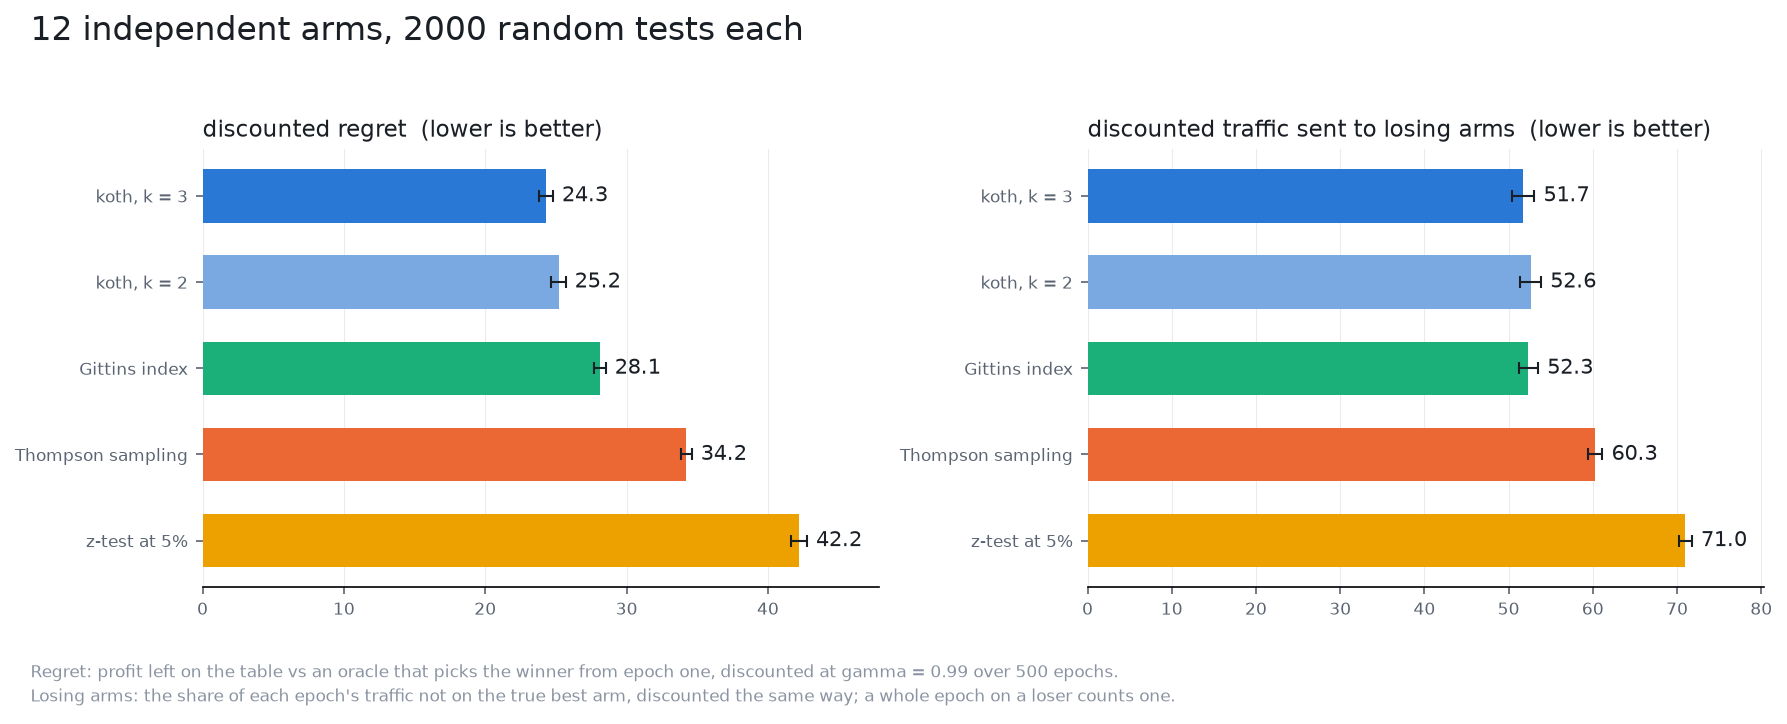
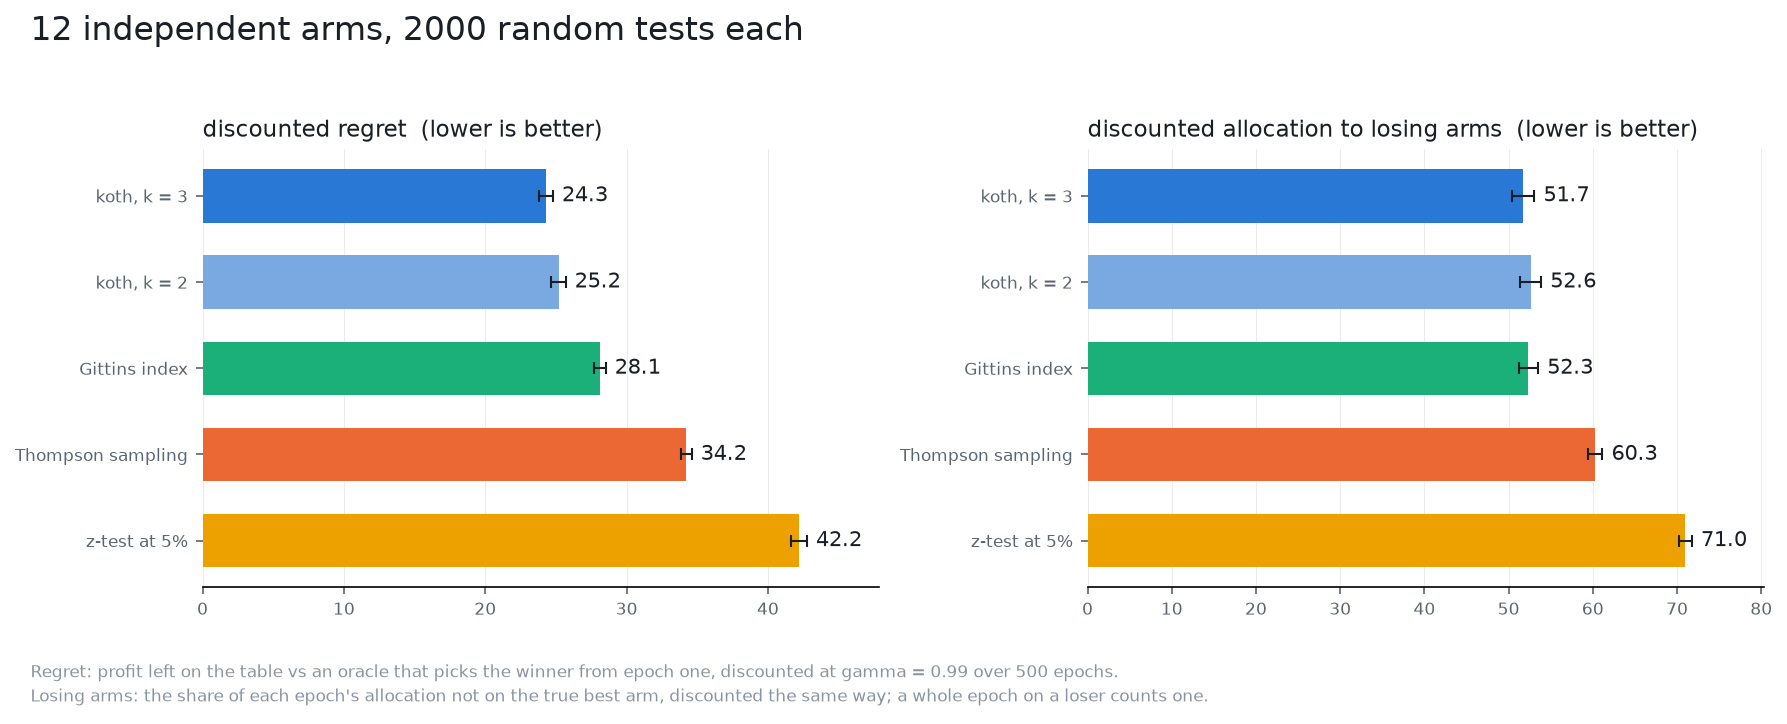
Test.observe folds a run of outcomes and allocations into the belief; the vocabulary is the model's
State.update(estimate, precision) is the step underneath, batched, on both
backends; Test.observe(state, outcomes, allocations) weighs each reading at
allocation / sigma**2, so a run of epochs is one call and equals one epoch at
a time. No traffic, visitors or visits anywhere: arms, allocation, metric,
epochs. The quickstart runs on it, rho says what 1 / rho is, the plot's
right panel is the discounted allocation to losing arms.

Changed region(s): [[0.6771, 0.1519, 0.9541, 0.2127], [0.1847, 0.942, 0.6771, 0.9724]]

diff --git a/koth/numpy_/state.py b/koth/numpy_/state.py
@@ -27,7 +27,7 @@ class State(state.State[np.ndarray]):
         return cls(mean, var[..., None] * np.eye(mean.shape[-1]))
 
     @override
-    def observe(self, estimate: np.ndarray, precision: np.ndarray) -> Self:
+    def update(self, estimate: np.ndarray, precision: np.ndarray) -> Self:
         estimate = np.broadcast_to(np.asarray(estimate, float), self.mean.shape)
         precision = np.broadcast_to(np.asarray(precision, float), self.mean.shape)
         information = np.linalg.inv(self.cov) + precision[..., None] * np.eye(self.arms)
@@ -49,13 +49,13 @@ if __name__ == "__main__":
 
     # Independent arms: observing everything at huge precision lands on the estimate.
     prior = State.independent([0.0, 1.0, 2.0], [4.0, 4.0, 4.0])
-    sharp = prior.observe([5.0, 6.0, 7.0], 1e9)
+    sharp = prior.update([5.0, 6.0, 7.0], 1e9)
     assert np.allclose(sharp.mean, [5.0, 6.0, 7.0]) and np.allclose(
         sharp.cov, 0.0, atol=1e-8
     )
 
     # One arm, precision q: the textbook scalar update, the others untouched.
-    once = prior.observe([5.0, 0.0, 0.0], [1.0, 0.0, 0.0])
+    once = prior.update([5.0, 0.0, 0.0], [1.0, 0.0, 0.0])
     assert np.isclose(once.mean[0], (0.0 / 4.0 + 5.0) / (1.0 / 4.0 + 1.0))
     assert np.isclose(once.cov[0, 0], 1.0 / (1.0 / 4.0 + 1.0))
     assert np.allclose(once.mean[1:], prior.mean[1:]) and np.allclose(
@@ -67,13 +67,14 @@ if __name__ == "__main__":
     # cov11 - cov01**2 / cov00.
     cov = np.array([[4.0, 1.0], [1.0, 2.0]])
     joint = State(np.array([0.0, 1.0]), cov)
-    told = joint.observe([2.0, 0.0], [1e12, 0.0])
+    told = joint.update([2.0, 0.0], [1e12, 0.0])
     assert np.isclose(told.mean[1], 1.0 + 1.0 / 4.0 * 2.0)
     assert np.isclose(told.cov[1, 1], 2.0 - 1.0 / 4.0)
 
     # Batched over a leading axis.
-    batch = State.independent(np.zeros((5, 3)), np.ones((5, 3))).observe(
+    batch = State.independent(np.zeros((5, 3)), np.ones((5, 3))).update(
         np.ones((5, 3)), 1.0
     )
     assert batch.mean.shape == (5, 3) and np.allclose(batch.mean, 0.5)
+
     print("state on numpy: ok")

diff --git a/koth/__init__.py b/koth/__init__.py
@@ -1,5 +1,5 @@
 """
-King of the hill: the top-k traffic-allocation heuristic for A/B/n tests with
+King of the hill: the top-k allocation heuristic for A/B/n tests with
 correlated arms.
 
     test = koth.Test(rho=0.001, sigma=450.0)
@@ -33,7 +33,10 @@ class Test(Generic[A]):
     """
 
     rho: float
-    """Discount rate per epoch."""
+    """
+    Discount rate per epoch, your time preference: `1 / rho` is the number of
+    epochs after which a result is worth 37% of one today. Not a deadline.
+    """
 
     sigma: float
     """Noise scale of one arm's estimate over one epoch at full allocation."""
@@ -72,6 +75,18 @@ class Test(Generic[A]):
         decision = self.decider.decide(chart, k)
 
         return replace(decision, value=decision.value * mean_scale / self.rho)
+
+    def observe(self, state: AnyState[A], outcomes: A, allocations: A) -> AnyState[A]:
+        """
+        The belief after a run of epochs: `outcomes[t, i]` is arm i's metric in
+        epoch t as measured, `allocations[t, i]` the share of the allocation it had
+        then (0 means no reading, and the value there is ignored). Both
+        `(epochs, arms)`; leading batch axes as on `state`.
+        """
+        weight = allocations.sum(-2)
+        estimate = (allocations * outcomes).sum(-2) / (weight + (weight == 0))
+
+        return state.update(estimate, weight / self.sigma**2)
 
 
 __all__ = ["Decision", "State", "Test"]

diff --git a/koth/__main__.py b/koth/__main__.py
@@ -62,4 +62,29 @@ if __name__ == "__main__":
         raise AssertionError("shape mismatch")
     except ValueError:
         pass
-    print("koth: units and validation ok, numpy only")
+    # Test.observe: each reading weighs allocation / sigma**2, so a run of epochs
+    # is the precision-weighted mean at the summed weight; all at once equals one
+    # epoch at a time, and an arm at allocation 0 is untouched.
+    test = Test(rho=0.01, sigma=2.0)
+    outcomes = rng.normal(size=(6, 3))
+    allocations = rng.dirichlet(np.ones(3), size=6)
+    allocations[:, 2] = 0.0
+    prior = State.flat(3, 100.0)
+    at_once = test.observe(prior, outcomes, allocations)
+    weight = allocations.sum(0)
+    expected = State.flat(3, 100.0).update(
+        (allocations * outcomes).sum(0) / np.where(weight > 0, weight, 1.0),
+        weight / 4.0,
+    )
+    assert np.allclose(at_once.mean, expected.mean) and np.allclose(
+        at_once.cov, expected.cov
+    )
+    assert at_once.cov[2, 2] == prior.cov[2, 2] and at_once.mean[2] == 0.0
+    stepwise = prior
+
+    for t in range(6):
+        stepwise = test.observe(stepwise, outcomes[t : t + 1], allocations[t : t + 1])
+    assert np.allclose(stepwise.mean, at_once.mean) and np.allclose(
+        stepwise.cov, at_once.cov
+    )
+    print("koth: units, validation and observe ok, numpy only")

diff --git a/koth/torch_/state.py b/koth/torch_/state.py
@@ -30,7 +30,7 @@ class State(state.State[Tensor]):
         return cls(mean, torch.diag_embed(var))
 
     @override
-    def observe(self, estimate: Tensor, precision: Tensor) -> Self:
+    def update(self, estimate: Tensor, precision: Tensor) -> Self:
         estimate = estimate.broadcast_to(self.mean.shape)
         precision = precision.broadcast_to(self.mean.shape)
         information = torch.linalg.inv(self.cov) + torch.diag_embed(precision)
@@ -78,8 +78,8 @@ if __name__ == "__main__":
         design = torch.rand(4, 3, generator=generator, dtype=torch.float64)
         design[:, 2] = 0.0
         filter_.observe((estimate, design))
-        belief = belief.observe(estimate, design / params.sigma**2)
-        numpy_belief = numpy_belief.observe(
+        belief = belief.update(estimate, design / params.sigma**2)
+        numpy_belief = numpy_belief.update(
             estimate.numpy(), (design / params.sigma**2).numpy()
         )
     assert torch.allclose(belief.mean, filter_.mean) and torch.allclose(
@@ -88,4 +88,5 @@ if __name__ == "__main__":
     assert np.allclose(numpy_belief.mean, filter_.mean.numpy())
     assert np.allclose(numpy_belief.cov, belief.cov.numpy())
     assert State.flat(3, 10.0).cov[1, 1] == 100.0
+
     print("state on torch: matches the arena filter and numpy over 5 epochs")

diff --git a/koth/state.py b/koth/state.py
@@ -1,6 +1,6 @@
 """
-A joint Gaussian belief over the arm effects, and the ways to build and update
-one. This module is the contract; each backend implements it in its own realm
+A joint Gaussian belief over the arm effects, and the ways to build one. This
+module is the contract; each backend implements it in its own realm
 (`numpy_.state`, `torch_.state`), and `koth.State` is the numpy one.
 """
 
@@ -52,10 +52,9 @@ class State(ABC, Generic[A]):
         """Per-arm estimates with their variances, `(..., arms)` each, uncorrelated."""
 
     @abstractmethod
-    def observe(self, estimate: A, precision: A) -> Self:
+    def update(self, estimate: A, precision: A) -> Self:
         """
-        The belief after one epoch's evidence: `estimate[i]` for arm i at
-        `precision[i]` (for `n` visitors with outcome sd `s`, `n / s**2`; 0 means
-        not observed). The conjugate update in information form, so a correlated
-        prior moves the unobserved arms too.
+        The belief after an estimate per arm, `(..., arms)`, at a precision per
+        arm, `(..., arms)`, 0 for an arm without one. `Test.observe` builds these
+        from a series of outcomes; this is the step underneath.
         """

diff --git a/koth/arena/main.py b/koth/arena/main.py
@@ -354,7 +354,7 @@ def plot(runs: Path, out: Path | None, drop: tuple[str, ...]) -> None:
         "discounted regret  (lower is better)": [
             mean_ci([r.regret for r in by_policy[n]]) for n in ranked
         ],
-        "discounted traffic sent to losing arms  (lower is better)": [
+        "discounted allocation to losing arms  (lower is better)": [
             mean_ci([r.off_best for r in by_policy[n]]) for n in ranked
         ],
     }
@@ -405,7 +405,7 @@ def plot(runs: Path, out: Path | None, drop: tuple[str, ...]) -> None:
         f"Regret: profit left on the table vs an oracle that picks the winner from "
         f"epoch one, discounted at gamma = {study.params.gamma} over "
         f"{study.params.horizon} epochs.\nLosing arms: the share of each epoch's "
-        "traffic not on the true best arm, discounted the same way; a whole epoch "
+        "allocation not on the true best arm, discounted the same way; a whole epoch "
         "on a loser counts one.",
         fontsize=8,
         color="#8a93a1",

diff --git a/koth/arena/policies/n_arm.py b/koth/arena/policies/n_arm.py
@@ -185,7 +185,7 @@ def demo() -> None:
     assert etc.committed == 1 and etc.committed_at == optimal_deadline(0.999, 500)
     # Soft commit time is the commit epoch: 50/50 is worth 1, a vertex 0.
     assert abs(etc.precision_time - etc.committed_at) < 1e-6, etc.precision_time
-    # Off-best traffic: half of every exploring epoch at two arms, discounted,
+    # Off-best allocation: half of every exploring epoch at two arms, discounted,
     # none after committing to the winner.
     explored = 0.5 * (1.0 - 0.999**etc.committed_at) / (1.0 - 0.999)
     assert abs(etc.off_best - explored) < 1e-6, etc.off_best

diff --git a/koth/arena/harness.py b/koth/arena/harness.py
@@ -122,7 +122,7 @@ class Run:
     committed_at: int | None = None
     off_best: float = 0.0
     """
-    Traffic sent to arms other than the epoch's true best, discounted at the
+    Allocation sent to arms other than the epoch's true best, discounted at the
     environment's gamma like `regret`: a vertex on a loser counts one epoch, an
     even split of N arms (N - 1) / N, a vertex on the winner zero. Regret with
     unit gaps, which counts an index policy's switching where `precision_time`

diff --git a/koth/decide.py b/koth/decide.py
@@ -25,7 +25,7 @@ class Decision(Generic[A]):
     """What to do this epoch, batched like the state it answers."""
 
     allocation: A
-    """Traffic share per arm, `(..., arms)`, a simplex row; a vertex is a commit."""
+    """Share per arm, `(..., arms)`, a simplex row; a vertex is a commit."""
 
     committed: A
     """The arm committed to, `(...)`, or -1 while the test is still running."""

diff --git a/README.md b/README.md
@@ -4,7 +4,7 @@
 ![Python](https://img.shields.io/badge/python-3.12%2B-blue)
 ![License](https://img.shields.io/badge/license-Apache--2.0-green)
 
-King of the hill: how to split traffic in an A/B/n test with correlated arms,
+King of the hill: how to allocate among the arms of an A/B/n test with correlated arms,
 decided on the top-k contenders (k = 2, 3).
 
 ```
@@ -17,18 +17,22 @@ pip install koth[arena]     # plus the benchmark arena
 import numpy as np
 import koth
 
-# A control and two treatments, one epoch = one day. Your posterior over the
-# arms' effects, in your units (here: lift per visit).
-mean = np.array([0.0, 3.0, 2.0])
-cov = np.diag([9.0, 10.0, 9.5])
+# A control and two treatments, one epoch = one day. What each arm measured
+# per day, and the share of the allocation it had that day: five days at an
+# even split (synthetic here; yours come from your data).
+rng = np.random.default_rng(5)
+allocations = np.full((5, 3), 1 / 3)
+outcomes = np.array([0.0, 3.0, 2.0]) + rng.normal(size=(5, 3)) * 30.0 / np.sqrt(allocations)
 
-test = koth.Test(rho=0.01, sigma=30.0)        # 1/rho = 100 days; sigma = one day's noise at full traffic
-decision = test.decide(koth.State(mean, cov))  # k = 2 or 3, min(3, arms) by default
+test = koth.Test(rho=0.01, sigma=30.0)  # 1/rho = 100 days; sigma = one day's noise at full allocation
+initial = koth.State.flat(arms=3, std=100.0)    # initial state: "uninformed 
+state = test.observe(initial, outcomes, allocations)
+decision = test.decide(state)           # k = 2 or 3, min(3, arms) by default
 
-decision.allocation   # [0.   0.634 0.366]: traffic share per arm; a vertex is a commit
+decision.allocation   # [0.24 0.51 0.25]: share per arm; a vertex is a commit
 decision.committed    # -1: no commit yet (else the arm's index)
 decision.contenders   # [0 1 2]: the k arms in play
-decision.value        # 319.7: value of continuing, in the units of `mean`
+decision.value        # 2044.0: value of continuing, in the units of the outcomes
 ```
 
 
@@ -37,11 +41,11 @@ decision.value        # 319.7: value of continuing, in the units of `mean`
 ### What is even the problem?
 
 A/B testing is hard because of the [exploration-exploitation dilemma](https://en.wikipedia.org/wiki/Exploration%E2%80%93exploitation_dilemma): every
-visitor you send to a variant in order to learn about it is a visitor you did not
-send to the variant you currently believe is best. It is about the money, not
+observation you spend on an arm in order to learn about it is one you did not
+spend on the arm you currently believe is best. It is about the money, not
 about being right, so hypothesis testing, the naive thing people reach for, is
-not the right tool: a p-value says whether an effect is there, not what to do
-with the next visitor.
+not the right tool: a p-value says whether an effect is there, not how much of
+the allocation each arm deserves.
 
 Targeted solutions do exist: Thompson sampling is a heuristic that works (easy, generalizable, decent performance), but it explores too much. If your arms are _independent_, the Gittins index is known to be the optimal strategy. However that's not always the case:
 
@@ -70,7 +74,7 @@ Good question. We have an _arena_ for exactly that: backtesting strategies. Let'
 
 "Good" here means time-discounted regret: how much less "money" I make with my strategy vs. a crystal ball. Nobody beats a crystal ball, but we can get close. Here are the numbers for some reasonable parameters:
 
-![12 independent arms, 2000 tests: regret and traffic on losing arms per strategy](resources/arena_independent12.png)
+![12 independent arms, 2000 tests: regret and allocation on losing arms per strategy](resources/arena_independent12.png)
 
 Every strategy plays the same 2000 random tests: 12 arms, true effects drawn
 from `N(0, 0.5)`, noise `sigma = 1` per epoch, `gamma = 0.99` (so `1/rho = 100`
@@ -99,7 +103,7 @@ Some notes:
 
 * Where do `mean` and `cov` come from? From _you_: they are your posterior over the arms' _effects_ (control included), in whatever units your metric has (koth never sees your raw data). For the common shared-control case, that is just one mean and one variance per arm, `cov = diag(var)`: the correlation between _lifts_ (every lift shares the control's noise) is derived by koth from the control's variance, you do not enter it. If you have a prior from past tests (empirical Bayes, correlated or not), `cov` is exactly where it goes.
 
-* What is `sigma`? And my arms have different noise levels! `sigma` is the noise of one arm's estimate over one epoch at full traffic, and it is the _same_ for every arm. That is not laziness: the inner maximization is a quadratic only because `sigma**2` factors out of the observation covariance. Conversion rates are within a few percent of this (`p(1 - p)` barely moves between arms). Revenue-vs-conversion arms are a different problem, not a parameter.
+* What is `sigma`? And my arms have different noise levels! `sigma` is the noise of one arm's estimate over one epoch at full allocation, and it is the _same_ for every arm. That is not laziness: the inner maximization is a quadratic only because `sigma**2` factors out of the observation covariance. Conversion rates are within a few percent of this (`p(1 - p)` barely moves between arms). Revenue-vs-conversion arms are a different problem, not a parameter.
 
 * My metric is a conversion rate, not Gaussian! The Gaussian is on your _posterior of the rate_, not on the clicks. After a few conversions per arm, that is a fine, if crude approximation. Below that, for sparse data, this indeed might not be the package for you.
 

diff --git a/CLAUDE.md b/CLAUDE.md
@@ -4,7 +4,7 @@
 
 `koth` (king of the hill): the PyPI package for the top-k allocation heuristic
 (k = 2, 3) for A/B/n tests with correlated arms. It decides how to split
-traffic, not when to stop: stopping is an opportunity-cost question and it is
+the allocation, not when to stop: stopping is an opportunity-cost question and it is
 not modelled here. Never describe it as a stopping rule. The research side -- the PINNs that produced the
 nets, the derivations, the graveyards -- lives in the sibling `pinn` repo and
 is NOT a dependency: nothing here imports `pinn`. Code may be copied from it.
